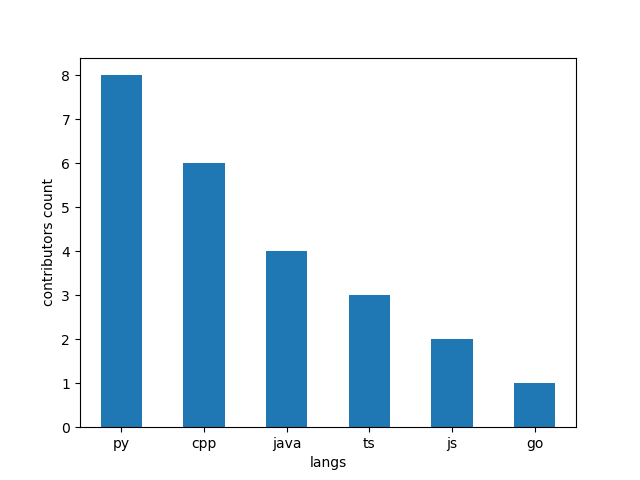
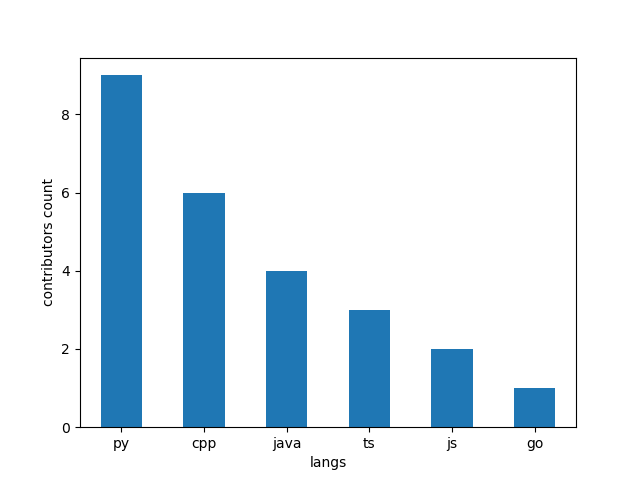
minor fix

diff --git a/contributors/contributors.md b/contributors/contributors.md
@@ -1,27 +1,26 @@
 # Contributors
-
 We have 19 contributors.
 
 ![](figs/langs.png)
 
-| nickname   | github        | langs                | first_commit |
-| :--------- | :------------ | :------------------- | :----------- |
-| any        | dataprob      | ['py', 'js']         | 05/26/2023   |
-| youssef    | ysaleh03      | ['cpp']              | 05/27/2023   |
-| blank      | Person314159  | ['cpp']              | 05/27/2023   |
-| Requiem    | PhaseRush     | ['py', 'java', 'ts'] | 05/28/2023   |
-| eater      | william-swy   | ['cpp']              | 05/29/2023   |
-| Haad       | hbhutta       | ['cpp']              | 05/29/2023   |
-| Gordon     | Hgjnnf        | ['py']               | 06/02/2023   |
-| Saif       | darksword99   | ['py']               | 06/05/2023   |
-| aaryan     | aaryan-rampal | ['java']             | 06/06/2023   |
-| yimeng     | ymnglli       | ['py']               | 06/08/2023   |
-| Jason      | argonaut0     | ['go']               | 06/15/2023   |
-| Nothingyet | hquanvo       | ['cpp']              |              |
-| eric       | eysk-io       | ['java']             |              |
-| Ryan       | ryanmckim     | ['py']               |              |
-| RasPoutine | nopunindented | ['py', 'js', 'ts']   |              |
-| dinosaur   | Ccolina03     | ['java', 'ts']       |              |
-| kiara      | kcoton        | ['py']               |              |
-| joel       | joelbonnie    | ['cpp']              |              |
-| alex       | azalexzhang   | []                   |              |
+| nickname   | github        | langs                | first_commit   |
+|:-----------|:--------------|:---------------------|:---------------|
+| any        | dataprob      | ['py', 'js']         | 05/26/2023     |
+| youssef    | ysaleh03      | ['cpp']              | 05/27/2023     |
+| blank      | Person314159  | ['cpp']              | 05/27/2023     |
+| Requiem    | PhaseRush     | ['py', 'java', 'ts'] | 05/28/2023     |
+| eater      | william-swy   | ['cpp']              | 05/29/2023     |
+| Haad       | hbhutta       | ['cpp']              | 05/29/2023     |
+| Gordon     | Hgjnnf        | ['py']               | 06/02/2023     |
+| Saif       | darksword99   | ['py']               | 06/05/2023     |
+| aaryan     | aaryan-rampal | ['java']             | 06/06/2023     |
+| yimeng     | ymnglli       | ['py']               | 06/08/2023     |
+| Jason      | argonaut0     | ['go']               | 06/15/2023     |
+| Nothingyet | hquanvo       | ['cpp']              |                |
+| eric       | eysk-io       | ['java']             |                |
+| Ryan       | ryanmckim     | ['py']               |                |
+| RasPoutine | nopunindented | ['py', 'js', 'ts']   |                |
+| dinosaur   | Ccolina03     | ['java', 'ts']       |                |
+| kiara      | kcoton        | ['py']               |                |
+| joel       | joelbonnie    | ['cpp']              |                |
+| alex       | azalexzhang   | ['py']               |                |
